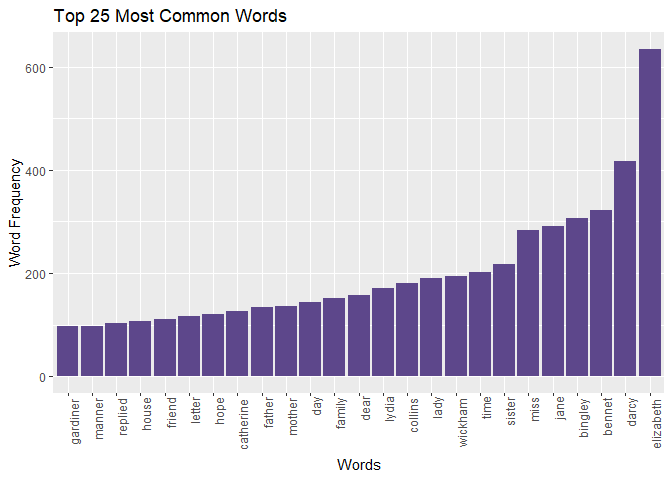
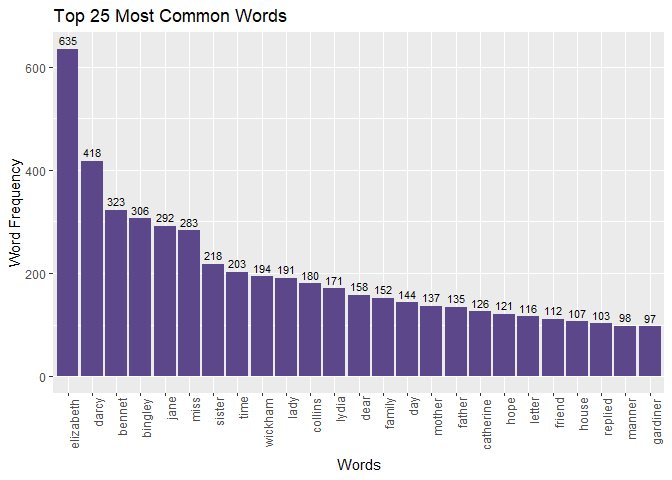
updating + start of exercise 2

Changed region(s): [[0.0625, 0.0625, 1.0, 0.6875], [0.5625, 0.8125, 1.0, 0.9375], [0.0938, 0.8125, 0.5312, 0.9375]]

diff --git a/Exercise_1.md b/Exercise_1.md
@@ -19,19 +19,9 @@ styles, just make sure you name the source and link to it.
 
 <!-- -->
 
-    suppressPackageStartupMessages(library(janeaustenr))
-
-    ## Warning: package 'janeaustenr' was built under R version 4.3.2
-
-    suppressPackageStartupMessages(library(tidyverse))
-
-    ## Warning: package 'readr' was built under R version 4.3.2
-
-    ## Warning: package 'dplyr' was built under R version 4.3.2
-
-    suppressPackageStartupMessages(library(tidytext))
-
-    ## Warning: package 'tidytext' was built under R version 4.3.2
+    suppressWarnings(suppressPackageStartupMessages(library(janeaustenr)))
+    suppressWarnings(suppressPackageStartupMessages(library(tidyverse)))
+    suppressWarnings(suppressPackageStartupMessages(library(tidytext)))
 
 -   Select the book/data to use in this task
 
@@ -108,9 +98,10 @@ styles, just make sure you name the source and link to it.
 
 <!-- -->
 
-    ggplot(top_25_words, aes(x = reorder(Word, Frequency), y = Frequency)) +
+    ggplot(top_25_words, aes(x = reorder(Word, -Frequency), y = Frequency)) +
       geom_bar(stat = "identity", fill = "mediumpurple4") +
       labs(title = "Top 25 Most Common Words", x = "Words", y = "Word Frequency") +
-      theme(axis.text.x = element_text(angle = 90, hjust = 1.1))
+      theme(axis.text.x = element_text(angle = 90, hjust = 1.1))+
+      geom_text(aes(label = Frequency), vjust = -0.5, size = 3)
 
 ![](Exercise_1_files/figure-markdown_strict/unnamed-chunk-6-1.png)
